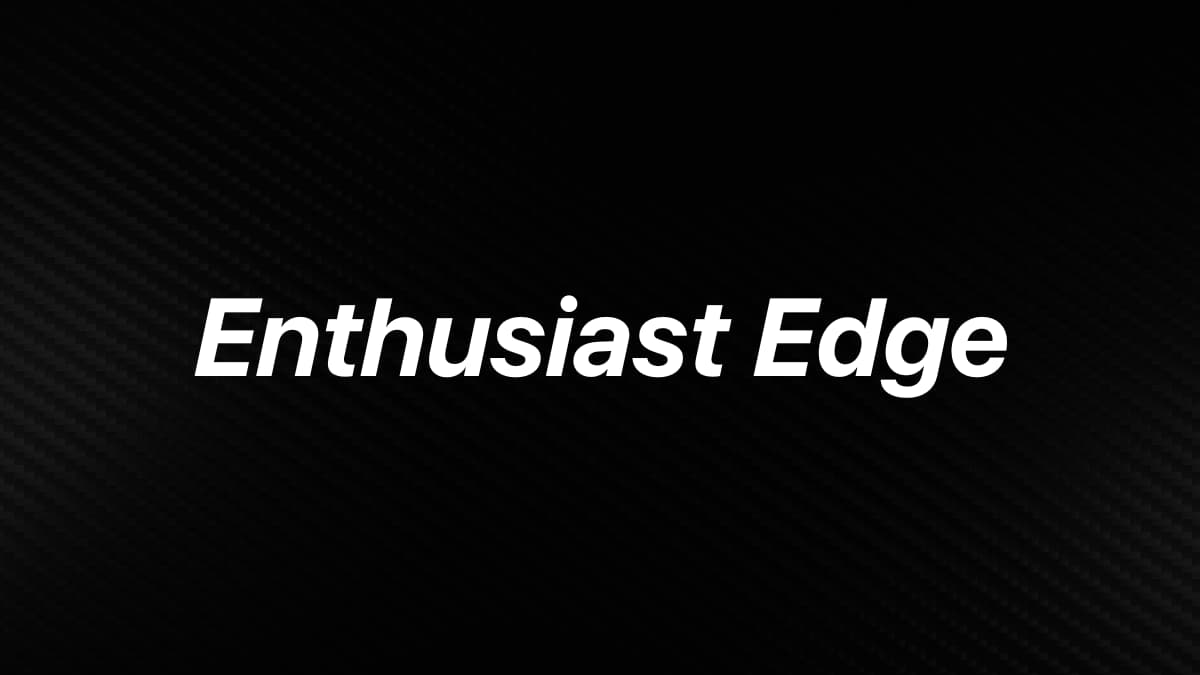
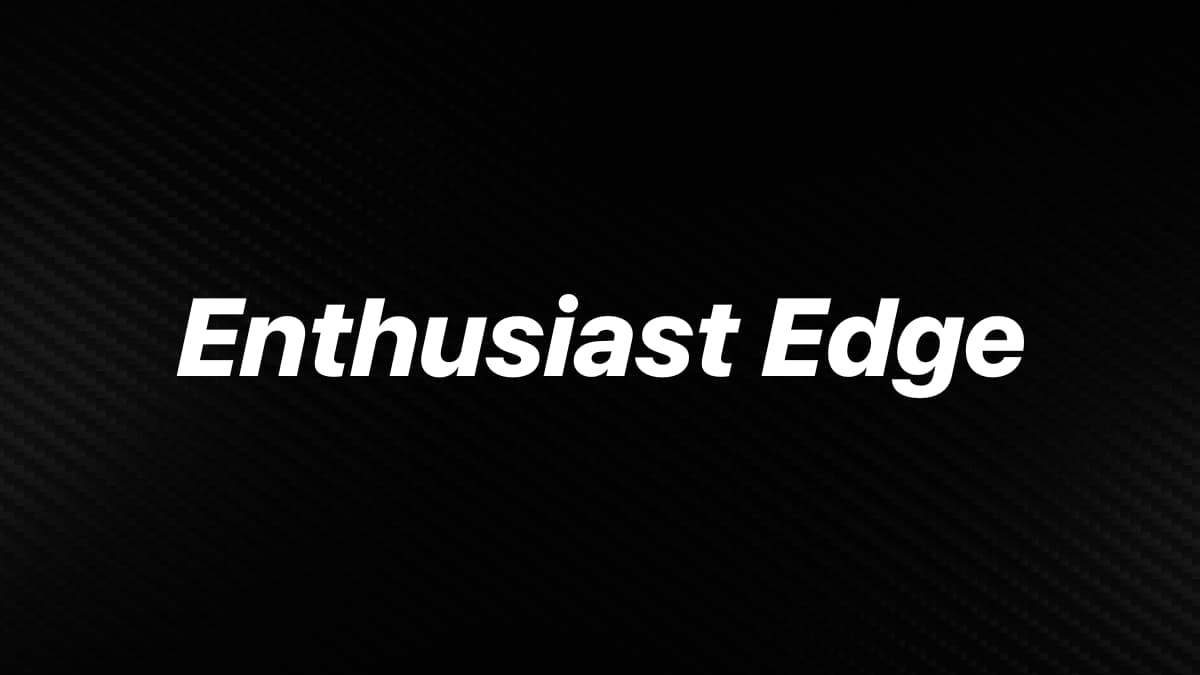
Increase branding font weight

Changed region(s): [[0.1233, 0.4356, 0.8633, 0.5911]]

diff --git a/src/pages/index.html b/src/pages/index.html
@@ -11,7 +11,7 @@ permalink: /index.html
   >
     <div class="w-full pb-24 text-center md:pb-32">
       <h1
-        class="mb-8 text-2xl font-bold text-white italic md:mb-10 md:text-3xl"
+        class="mb-8 text-2xl font-extrabold text-white italic md:mb-10 md:text-3xl"
       >
         Enthusiast Edge
       </h1>
